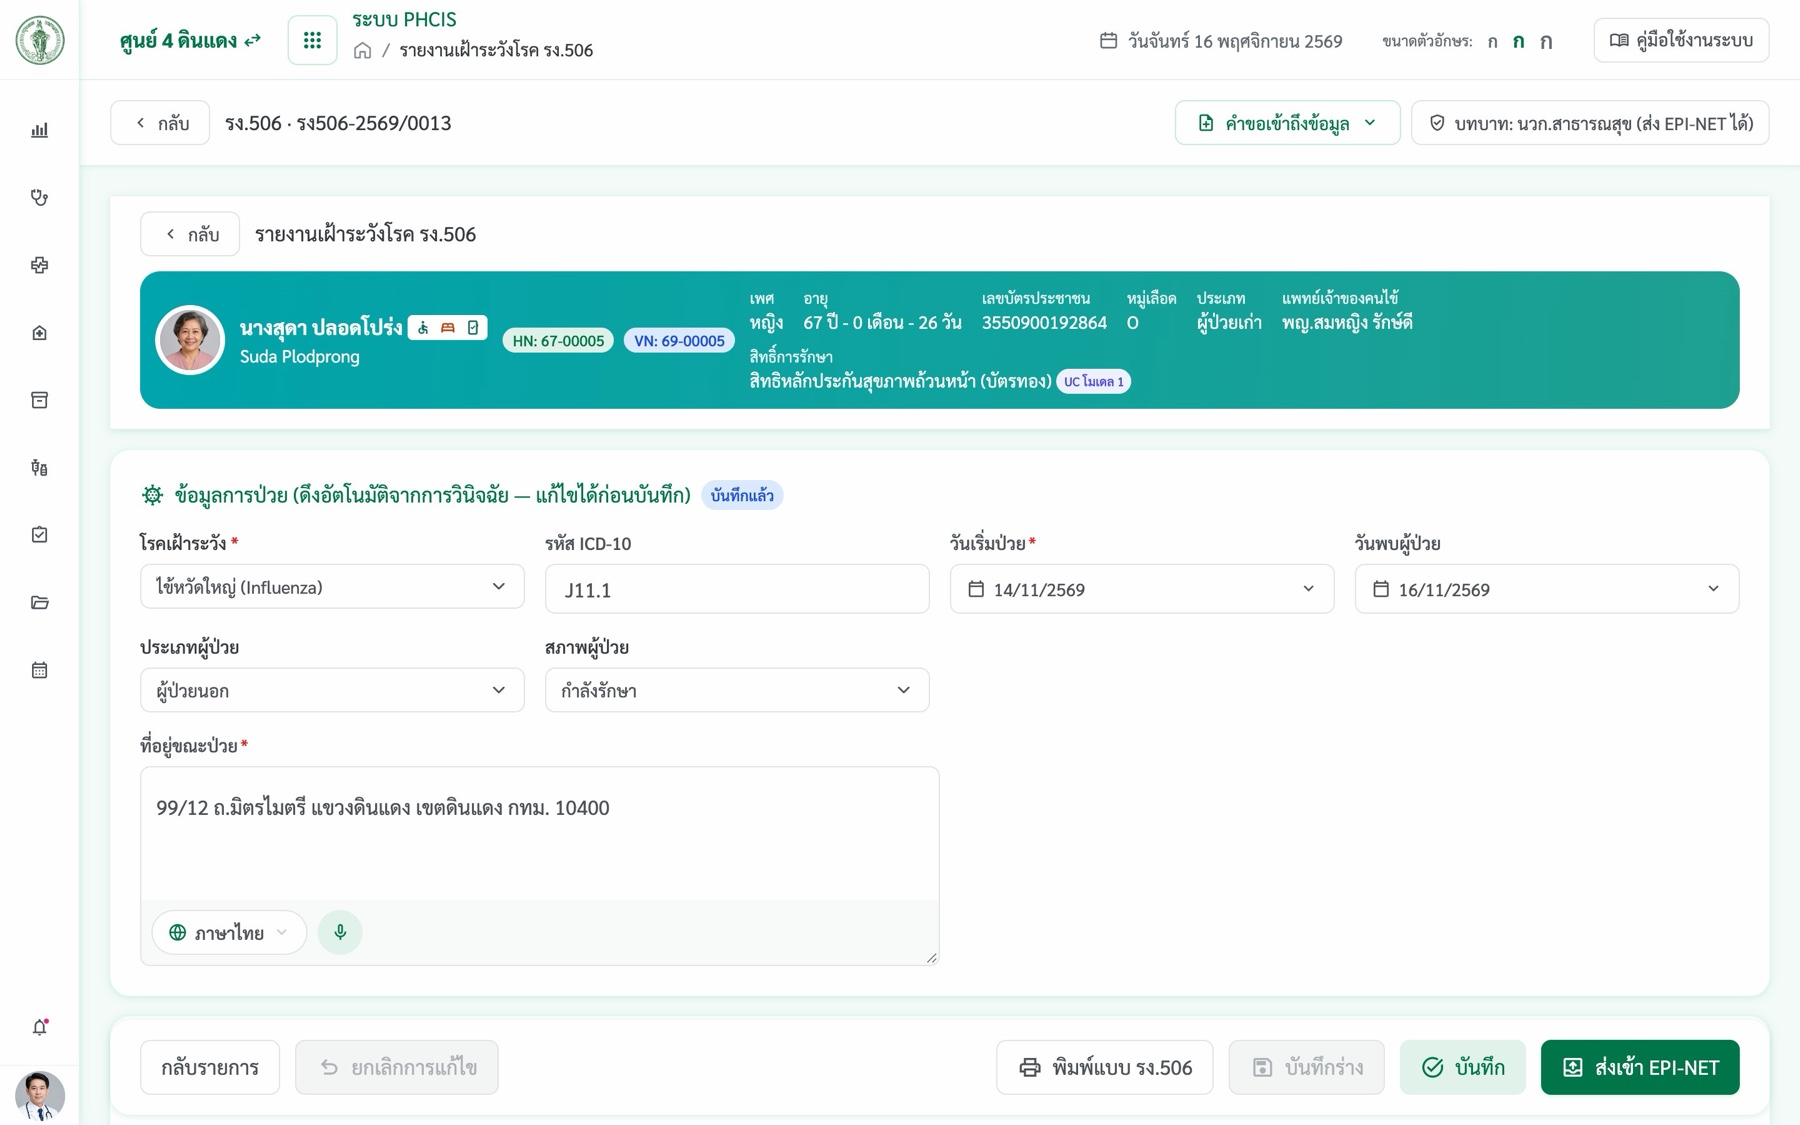
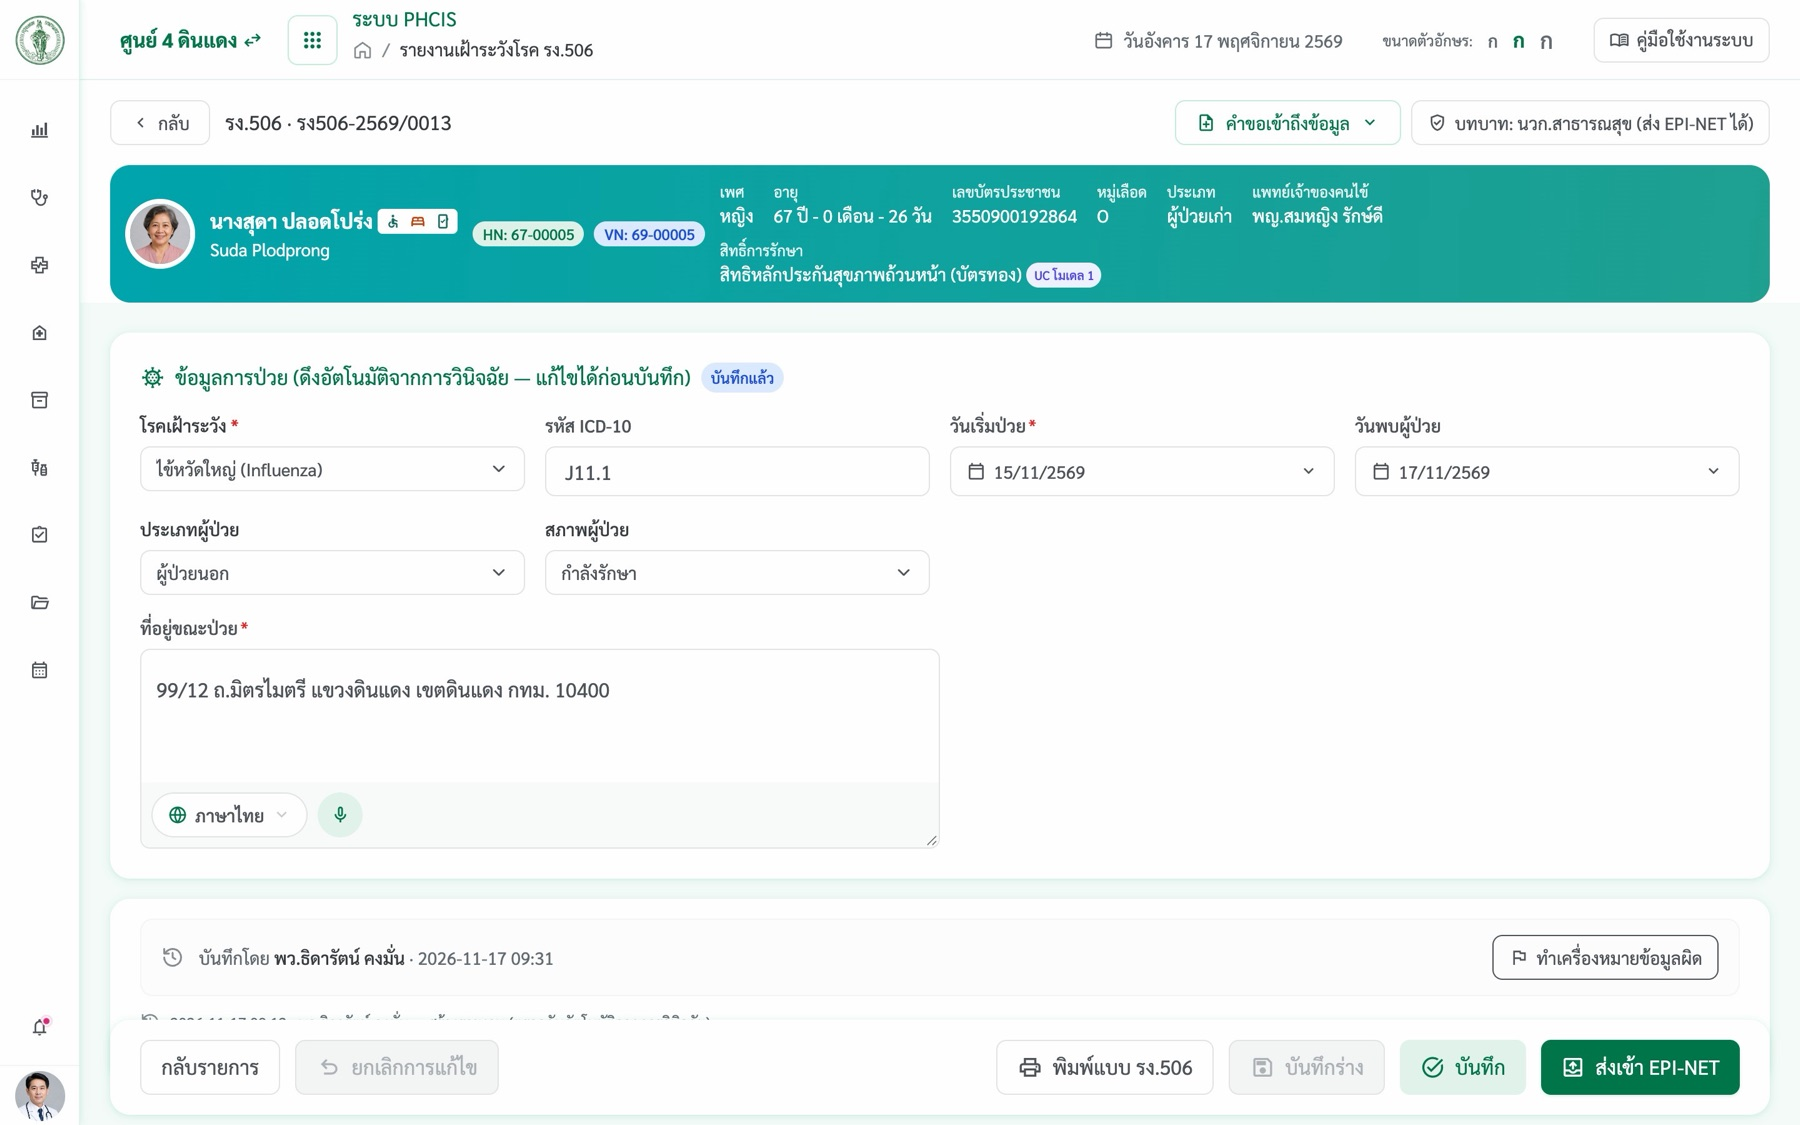
OPD (คทง.1) ข้อ รง.506: ภาพฟอร์มใหม่ — ไม่มีแถว กลับ + ชื่อหน้าซ้ำ · การ์ดผู้ป่วยอยู่การ์ดขาวเดียวกับแถบหัว (17 พ.ย. 69)

diff --git a/tor-k9-addiction.html b/tor-k9-addiction.html
@@ -1094,7 +1094,7 @@
   <div class="card" id="osc-22"><div class="head"><div><h2>§5.1 · 1.2.3 · รายการงานแยกตามสถานะ (REQ-PHC1.2-17)</h2><p class="sum">ภาพในเอกสาร 1 ภาพ</p></div><span class="chip nw c-orange">แก้เล็กน้อย</span></div><hr><p class="gh">ข้อความต้นฉบับ (SDD)</p><blockquote>- สามารถแสดงรายการงานแยกตามสถานะได้ เช่น รายการงานที่รอดำเนินการ รายการงานที่ดำเนินการเสร็จสิ้น</blockquote><hr><p class="gh">ภาพในเอกสาร</p><div class="shots"><figure class="v-part"><img src="tor-shots/opd-sdd-shots-2569-11-16/doc/image11.jpg" alt="ภาพในเอกสาร image11: ตารางสิ่งที่ต้องดำเนินการ 35 รายการ + ปุ่มดำเนินการ · ไม่เห็นการแยกรอดำเนินการ/เสร็จสิ้น" loading="lazy"><figcaption><span class="chip nw c-orange">ตรงบางส่วน</span> <span class="fn">image11</span> · ตารางสิ่งที่ต้องดำเนินการ 35 รายการ + ปุ่มดำเนินการ · ไม่เห็นการแยกรอดำเนินการ/เสร็จสิ้น</figcaption></figure></div><hr><p class="gh">ต้องแก้</p><p>เพิ่มภาพแถวที่ดำเนินการแล้ว (ท้ายตาราง) หรือตัวกรอง/แท็บสถานะ รอดำเนินการ vs เสร็จสิ้น · หรือใช้แท็บคิววันนี้ vs ตรวจเสร็จแล้ว · แทนด้วยภาพที่ควรใช้</p><hr><p class="gh">ภาพที่ควรใช้ (ถ่ายจากระบบจริง 16 พ.ย. 2569 · 1440px)</p><div class="shots"><figure class="v-fix"><img src="tor-shots/opd-sdd-shots-2569-11-16/fix/r17-1-treat-status.jpg" alt="ภาพที่ควรใช้: จำนวนรอตรวจ / กำลังตรวจ / เสร็จแล้ว + แท็บ &quot;ตรวจเสร็จแล้ว&quot;" loading="lazy"><figcaption><span class="chip nw c-blue">ภาพที่ควรใช้</span> จำนวนรอตรวจ / กำลังตรวจ / เสร็จแล้ว + แท็บ &quot;ตรวจเสร็จแล้ว&quot;</figcaption></figure><figure class="v-fix"><img src="tor-shots/opd-sdd-shots-2569-11-16/fix/r17-2-treat-done.jpg" alt="ภาพที่ควรใช้: แท็บ &quot;ตรวจเสร็จแล้ว&quot;" loading="lazy"><figcaption><span class="chip nw c-blue">ภาพที่ควรใช้</span> แท็บ &quot;ตรวจเสร็จแล้ว&quot;</figcaption></figure></div><hr><p class="gh">วิธีกดดู</p><p>บทบาทแพทย์ · /treat · การ์ดสถานะ + แท็บ &quot;ตรวจเสร็จแล้ว&quot;</p></div>
   <div class="card tor-conflict" id="osc-23"><div class="head"><div><h2>§5.1 · 1.2.3 · บันทึกเวลาและผู้ให้บริการแต่ละสถานี (REQ-PHC1.2-18)</h2><p class="sum">ภาพในเอกสาร 1 ภาพ</p></div><span class="chip nw c-red">ต้องแก้</span></div><hr><p class="gh">ข้อความต้นฉบับ (SDD)</p><blockquote>- สามารถบันทึกเวลาการให้บริการ ผู้ให้บริการในแต่ละสถานีงานได้</blockquote><hr><p class="gh">ภาพในเอกสาร</p><div class="shots"><figure class="v-bad"><img src="tor-shots/opd-sdd-shots-2569-11-16/doc/image5.jpg" alt="ภาพในเอกสาร image5: การ์ดการส่งต่อจากจุดคัดกรอง คลินิก + แพทย์ + ช่วงนัด · ไม่ใช่เวลาให้บริการต่อสถานี" loading="lazy"><figcaption><span class="chip nw c-red">ไม่ตรง</span> <span class="fn">image5</span> · การ์ดการส่งต่อจากจุดคัดกรอง คลินิก + แพทย์ + ช่วงนัด · ไม่ใช่เวลาให้บริการต่อสถานี</figcaption></figure></div><hr><p class="gh">ต้องแก้</p><p>เปลี่ยนภาพเป็นตารางเวลาเข้า/ออก + ผู้ให้บริการต่อสถานี · หรือคอลัมน์รอนาน จุดนี้/รวม ในคิว + ประวัติรอบคัดกรอง (image1) · แทนด้วยภาพที่ควรใช้</p><hr><p class="gh">ภาพที่ควรใช้ (ถ่ายจากระบบจริง 16 พ.ย. 2569 · 1440px)</p><div class="shots"><figure class="v-fix"><img src="tor-shots/opd-sdd-shots-2569-11-16/fix/r18-1-wait-per-station.jpg" alt="ภาพที่ควรใช้: คอลัมน์ &quot;รอนาน&quot; จุดนี้ X นาที · รวม Y นาที ต่อสถานี" loading="lazy"><figcaption><span class="chip nw c-blue">ภาพที่ควรใช้</span> คอลัมน์ &quot;รอนาน&quot; จุดนี้ X นาที · รวม Y นาที ต่อสถานี</figcaption></figure></div><hr><p class="gh">วิธีกดดู</p><p>/opd/queue · คอลัมน์ &quot;รอนาน&quot;</p></div>
   <div class="card" id="osc-24"><div class="head"><div><h2>§5.1 · 1.2.3 · ยอดผู้รับบริการรายวัน แยกหน่วยบริการ/ประเภท (REQ-PHC1.2-19)</h2><p class="sum">ภาพในเอกสาร 3 ภาพ</p></div><span class="chip nw c-orange">แก้เล็กน้อย</span></div><hr><p class="gh">ข้อความต้นฉบับ (SDD)</p><blockquote>- สามารถแสดงยอดผู้รับบริการที่มารับบริการในแต่ละวัน แยกตามหน่วยบริการ ตามประเภทผู้รับบริการได้</blockquote><hr><p class="gh">ภาพในเอกสาร</p><div class="shots"><figure class="v-part"><img src="tor-shots/opd-sdd-shots-2569-11-16/doc/image6.jpg" alt="ภาพในเอกสาร image6: คิววันนี้ + ตัวกรองแผนก/ประเภท กรอบแดง · ไม่เห็นยอดแยก" loading="lazy"><figcaption><span class="chip nw c-orange">ตรงบางส่วน</span> <span class="fn">image6</span> · คิววันนี้ + ตัวกรองแผนก/ประเภท กรอบแดง · ไม่เห็นยอดแยก</figcaption></figure><figure class="v-part"><img src="tor-shots/opd-sdd-shots-2569-11-16/doc/image3.jpg" alt="ภาพในเอกสาร image3: การ์ดยอด 24 คิว/รอตรวจ/เสร็จ + ตัวกรองแผนกเปิด · ยอดไม่แยกตามหน่วยบริการ" loading="lazy"><figcaption><span class="chip nw c-orange">ตรงบางส่วน</span> <span class="fn">image3</span> · การ์ดยอด 24 คิว/รอตรวจ/เสร็จ + ตัวกรองแผนกเปิด · ยอดไม่แยกตามหน่วยบริการ</figcaption></figure><figure class="v-del"><img src="tor-shots/opd-sdd-shots-2569-11-16/doc/image10.jpg" alt="ภาพในเอกสาร image10: ตัวกรองประเภท นัดหมาย/Walk-in · ซ้ำกับ image6" loading="lazy"><figcaption><span class="chip nw c-red">ควรลบ</span> <span class="fn">image10</span> · ตัวกรองประเภท นัดหมาย/Walk-in · ซ้ำกับ image6</figcaption></figure></div><hr><p class="gh">ต้องแก้</p><p>ลบ image10 (ซ้ำ) · เพิ่มภาพยอดที่แยกจริง เช่น หน้ารายงาน OPD กราฟนัดหมาย vs Walk-in และยอดต่อคลินิก · แทนด้วยภาพที่ควรใช้</p><hr><p class="gh">ภาพที่ควรใช้ (ถ่ายจากระบบจริง 16 พ.ย. 2569 · 1440px)</p><div class="shots"><figure class="v-fix"><img src="tor-shots/opd-sdd-shots-2569-11-16/fix/r19-1-daily.jpg" alt="ภาพที่ควรใช้: กราฟครั้งคัดกรองรายวัน แยกนัดหมาย / Walk-in · คน ≠ ครั้ง" loading="lazy"><figcaption><span class="chip nw c-blue">ภาพที่ควรใช้</span> กราฟครั้งคัดกรองรายวัน แยกนัดหมาย / Walk-in · คน ≠ ครั้ง</figcaption></figure></div><hr><p class="gh">วิธีกดดู</p><p>/opd/queue · ปุ่ม &quot;รายงาน&quot; → /opd/reports</p></div>
-  <div class="card tor-conflict" id="osc-25"><div class="head"><div><h2>§5.1 · 1.2.3 · รายงาน รง.506 ส่ง EPI-NET (REQ-PHC1.2-20)</h2><p class="sum">ภาพในเอกสาร 0 ภาพ</p></div><span class="chip nw c-red">ต้องแก้</span></div><hr><p class="gh">ข้อความต้นฉบับ (SDD)</p><blockquote>- สามารถสร้างและบันทึกข้อมูลตามแบบรายงาน รง.๕๐๖ โดยดึงข้อมูลที่เกี่ยวข้องมาอัตโนมัติ สำหรับโรคที่ต้องเฝ้าระวัง เพื่อส่งเข้าระบบสารสนเทศระบาดวิทยากรุงเทพมหานคร (EPI-NET)</blockquote><hr><p class="gh">ภาพในเอกสาร</p><p>ไม่มีภาพ</p><hr><p class="gh">ต้องแก้</p><p>ไม่มีภาพ → เพิ่ม 2 ภาพ: รายการ รง.506 + ฟอร์มที่ดึงข้อมูลอัตโนมัติ/ปุ่มส่ง EPI-NET · แทนด้วยภาพที่ควรใช้</p><hr><p class="gh">ภาพที่ควรใช้ (ถ่ายจากระบบจริง 16 พ.ย. 2569 · 1440px)</p><div class="shots"><figure class="v-fix"><img src="tor-shots/opd-sdd-shots-2569-11-16/fix/r20-1-rg506-list.jpg" alt="ภาพที่ควรใช้: ทะเบียน รง.506 · สถานะ ร่าง / บันทึกแล้ว / ส่ง EPI-NET แล้ว" loading="lazy"><figcaption><span class="chip nw c-blue">ภาพที่ควรใช้</span> ทะเบียน รง.506 · สถานะ ร่าง / บันทึกแล้ว / ส่ง EPI-NET แล้ว</figcaption></figure><figure class="v-fix"><img src="tor-shots/opd-sdd-shots-2569-11-16/fix/r20-2-rg506-form.jpg" alt="ภาพที่ควรใช้: ฟอร์ม รง.506 ดึงโรค ICD-10 วันเริ่มป่วย ที่อยู่อัตโนมัติ · ปุ่ม &quot;ส่งเข้า EPI-NET&quot;" loading="lazy"><figcaption><span class="chip nw c-blue">ภาพที่ควรใช้</span> ฟอร์ม รง.506 ดึงโรค ICD-10 วันเริ่มป่วย ที่อยู่อัตโนมัติ · ปุ่ม &quot;ส่งเข้า EPI-NET&quot;</figcaption></figure></div><hr><p class="gh">วิธีกดดู</p><p>/opd/rg506 · แถว รง506-2569/0013 · ปุ่ม &quot;แก้ไข&quot;</p></div>
+  <div class="card tor-conflict" id="osc-25"><div class="head"><div><h2>§5.1 · 1.2.3 · รายงาน รง.506 ส่ง EPI-NET (REQ-PHC1.2-20)</h2><p class="sum">ภาพในเอกสาร 0 ภาพ</p></div><span class="chip nw c-red">ต้องแก้</span></div><hr><p class="gh">ข้อความต้นฉบับ (SDD)</p><blockquote>- สามารถสร้างและบันทึกข้อมูลตามแบบรายงาน รง.๕๐๖ โดยดึงข้อมูลที่เกี่ยวข้องมาอัตโนมัติ สำหรับโรคที่ต้องเฝ้าระวัง เพื่อส่งเข้าระบบสารสนเทศระบาดวิทยากรุงเทพมหานคร (EPI-NET)</blockquote><hr><p class="gh">ภาพในเอกสาร</p><p>ไม่มีภาพ</p><hr><p class="gh">ต้องแก้</p><p>ไม่มีภาพ → เพิ่ม 2 ภาพ: รายการ รง.506 + ฟอร์มที่ดึงข้อมูลอัตโนมัติ/ปุ่มส่ง EPI-NET · แทนด้วยภาพที่ควรใช้</p><hr><p class="gh">ภาพที่ควรใช้ (ถ่ายจากระบบจริง 16 พ.ย. 2569 · 1440px)</p><div class="shots"><figure class="v-fix"><img src="tor-shots/opd-sdd-shots-2569-11-16/fix/r20-1-rg506-list.jpg" alt="ภาพที่ควรใช้: ทะเบียน รง.506 · สถานะ ร่าง / บันทึกแล้ว / ส่ง EPI-NET แล้ว" loading="lazy"><figcaption><span class="chip nw c-blue">ภาพที่ควรใช้</span> ทะเบียน รง.506 · สถานะ ร่าง / บันทึกแล้ว / ส่ง EPI-NET แล้ว</figcaption></figure><figure class="v-fix"><img src="tor-shots/opd-sdd-shots-2569-11-16/fix/r20-2-rg506-form.jpg?v=20261117" alt="ภาพที่ควรใช้: ฟอร์ม รง.506 ดึงโรค ICD-10 วันเริ่มป่วย ที่อยู่อัตโนมัติ · ปุ่ม &quot;ส่งเข้า EPI-NET&quot;" loading="lazy"><figcaption><span class="chip nw c-blue">ภาพที่ควรใช้</span> ฟอร์ม รง.506 ดึงโรค ICD-10 วันเริ่มป่วย ที่อยู่อัตโนมัติ · ปุ่ม &quot;ส่งเข้า EPI-NET&quot;</figcaption></figure></div><hr><p class="gh">วิธีกดดู</p><p>/opd/rg506 · แถว รง506-2569/0013 · ปุ่ม &quot;แก้ไข&quot;</p></div>
   <div class="card" id="osc-26"><div class="head"><div><h2>§5.1 · 1.2.4.1 · Patient Timeline (REQ-PHC1.2-21)</h2><p class="sum">ภาพในเอกสาร 1 ภาพ</p></div><span class="chip nw c-orange">แก้เล็กน้อย</span></div><hr><p class="gh">ข้อความต้นฉบับ (SDD)</p><blockquote>๑.๒.๔.๑ สามารถแสดงข้อมูลการดูแลรักษาผู้รับบริการในรูปแบบ Patient Timeline เพื่อให้ผู้ใช้งานสามารถติดตามกิจกรรมและสถานะการบริการต่างๆ ที่เกิดขึ้นกับผู้รับบริการได้ (Tracking &amp; Trace Back)</blockquote><hr><p class="gh">ภาพในเอกสาร</p><div class="shots"><figure class="v-ok"><img src="tor-shots/opd-sdd-shots-2569-11-16/doc/image19.jpg" alt="ภาพในเอกสาร image19: ดูข้อมูลทางการแพทย์ มุมมองตามวันที่ เส้นเวลา visit ซ้าย + รายละเอียดขวา · ไม่มีกรอบแดง" loading="lazy"><figcaption><span class="chip nw c-green">ตรง</span> <span class="fn">image19</span> · ดูข้อมูลทางการแพทย์ มุมมองตามวันที่ เส้นเวลา visit ซ้าย + รายละเอียดขวา · ไม่มีกรอบแดง</figcaption></figure></div><hr><p class="gh">ต้องแก้</p><p>ใส่กรอบแดงที่เส้นเวลา/ปุ่มดูตามวันที่</p></div>
   <div class="card" id="osc-27"><div class="head"><div><h2>§5.1 · 1.2.4.2 · บันทึกเวชระเบียนอิเล็กทรอนิกส์ EMR (REQ-PHC1.2-22)</h2><p class="sum">ภาพในเอกสาร 1 ภาพ</p></div><span class="chip nw c-orange">แก้เล็กน้อย</span></div><hr><p class="gh">ข้อความต้นฉบับ (SDD)</p><blockquote>๑.๒.๔.๒ สามารถใช้งานการบันทึกข้อมูลเพิ่มเวชระเบียนอิเล็กทรอนิกส์ (Electronic Medical Record) ได้ ตามที่ระบุในข้อ ๑.๔</blockquote><hr><p class="gh">ภาพในเอกสาร</p><div class="shots"><figure class="v-ok"><img src="tor-shots/opd-sdd-shots-2569-11-16/doc/image9.jpg" alt="ภาพในเอกสาร image9: หน้าแพทย์ ตรวจร่างกายและวินิจฉัย อาการนำ + ICD-10 + แท็บข้อมูลทางการแพทย์ EMR" loading="lazy"><figcaption><span class="chip nw c-green">ตรง</span> <span class="fn">image9</span> · หน้าแพทย์ ตรวจร่างกายและวินิจฉัย อาการนำ + ICD-10 + แท็บข้อมูลทางการแพทย์ EMR</figcaption></figure></div><hr><p class="gh">ต้องแก้</p><p>รหัสในเอกสารพิมพ์ REQ-PHC1.22 → แก้เป็น REQ-PHC1.2-22</p></div>
   <div class="card" id="osc-28"><div class="head"><div><h2>§5.1 · 1.2.5.1 · สั่งการรักษา CPOE (REQ-PHC1.2-23)</h2><p class="sum">ภาพในเอกสาร 1 ภาพ</p></div><span class="chip nw c-orange">แก้เล็กน้อย</span></div><hr><p class="gh">ข้อความต้นฉบับ (SDD)</p><blockquote>๑.๒.๕.๑ สามารถใช้งานการบันทึกข้อมูลการสั่งการรักษาโดยแพทย์ (Computerize Provider Order Entering) ได้ ตามที่ระบุในข้อ ๑.๕</blockquote><hr><p class="gh">ภาพในเอกสาร</p><div class="shots"><figure class="v-ok"><img src="tor-shots/opd-sdd-shots-2569-11-16/doc/image43.jpg" alt="ภาพในเอกสาร image43: ขั้นสั่งการรักษา (CPOE) แท็บสั่งยา/แล็บ/รังสี/ปรึกษา + ช่องค้นยา" loading="lazy"><figcaption><span class="chip nw c-green">ตรง</span> <span class="fn">image43</span> · ขั้นสั่งการรักษา (CPOE) แท็บสั่งยา/แล็บ/รังสี/ปรึกษา + ช่องค้นยา</figcaption></figure></div><hr><p class="gh">ต้องแก้</p><p>ตารางยาว่าง · ถ้าเพิ่มยา 1–2 รายการก่อนถ่ายจะสื่อชัดกว่า</p></div>
